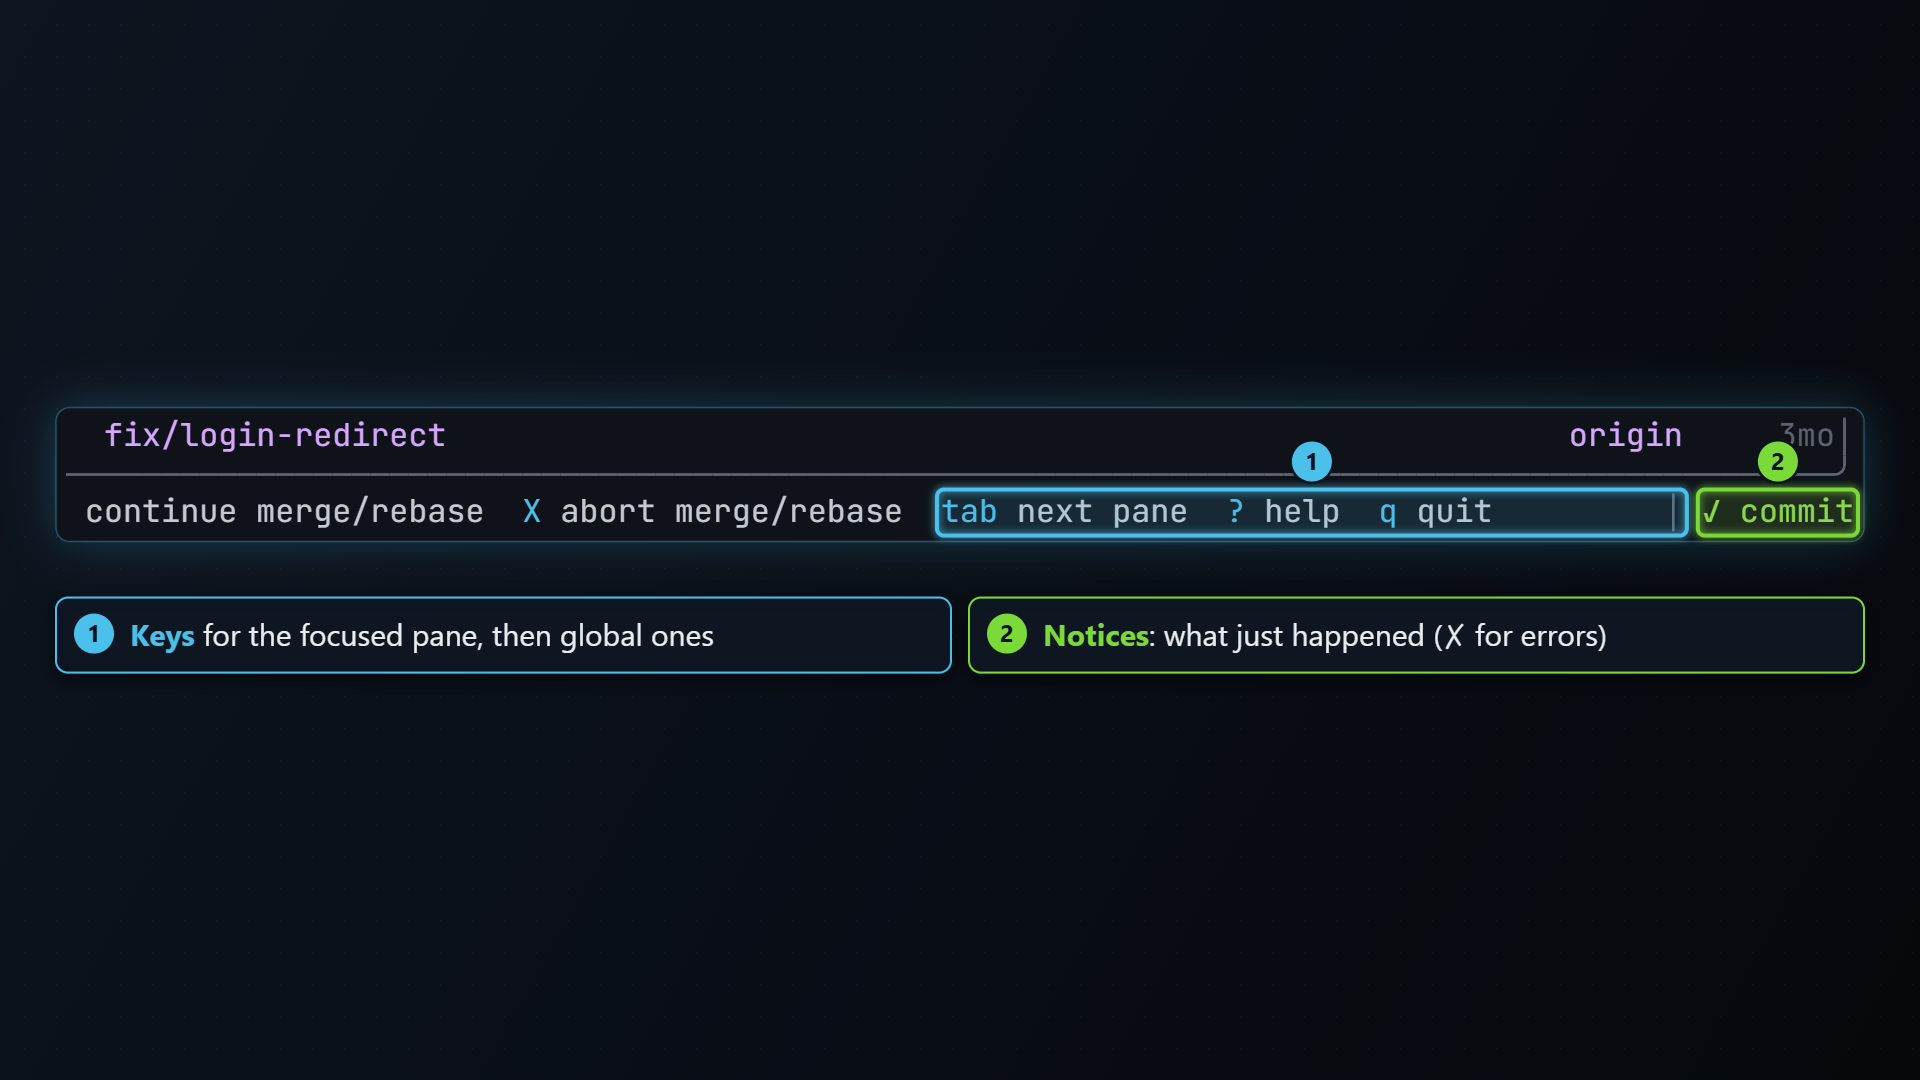
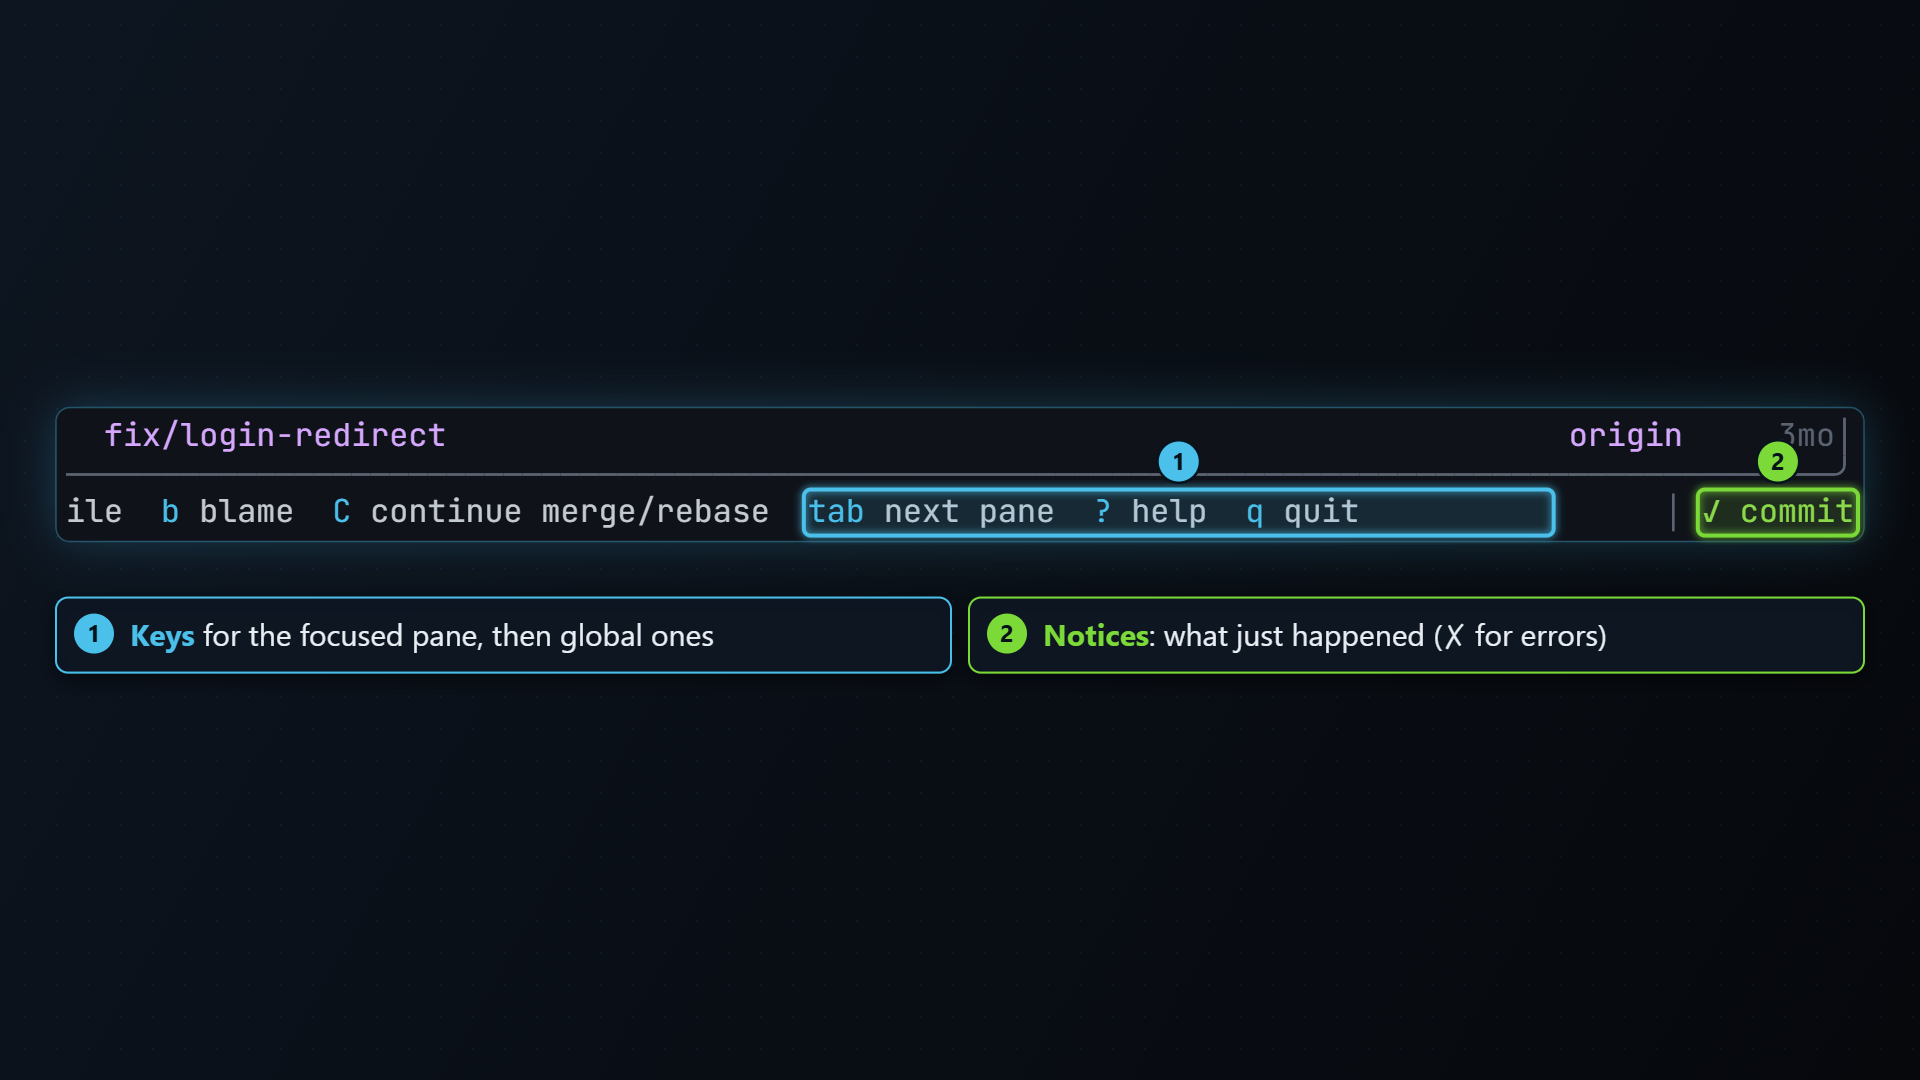
docs(status): Describe ignoring a file with i

Changed region(s): [[0.0312, 0.4278, 0.5312, 0.5194], [0.5625, 0.3972, 0.9062, 0.5194]]

diff --git a/crates/tt-git-testkit/examples/docshots.rs b/crates/tt-git-testkit/examples/docshots.rs
@@ -74,6 +74,7 @@ fn main() {
         ("commit", &["2", "c", "text:Show the unread count on the bell"]),
         ("stash-prompt", &["2", "s", "tab", "tab", "text:try a pulse animation"]),
         ("discard-confirm", &["2", "j", "d"]),
+        ("ignore-picker", &["2", "G", "k", "i"]),
         ("branches", &["3"]),
         ("branches-filter", &["3", "/", "text:fpp"]),
         ("branches-new", &["3", "j", "j", "n", "tab", "text:fix/footer-links"]),

diff --git a/README.md b/README.md
@@ -15,7 +15,7 @@ A terminal git client in Rust ([ratatui](https://ratatui.rs)), inspired by
   Press `a` to switch between all branches and just the current branch (plus
   its upstream).
 - **A status pane** like lazygit's files panel: stage, unstage, discard,
-  commit, amend and stash. Press `enter` on a file to see its changes
+  ignore, commit, amend and stash. Press `enter` on a file to see its changes
   fullscreen and stage, unstage or discard them a hunk or a line at a time.
   It also handles merge/rebase/cherry-pick conflicts.
 - **Code colored by language** in diffs, the staging view and blame, with
@@ -134,6 +134,7 @@ command palette, which lists built-in commands and plugin actions.
 | | `enter` | open the file's changes fullscreen to stage them by hunk or line (below) |
 | | `a` | stage everything (or unstage, if all staged) |
 | | `d` | discard changes to the file (asks first) |
+| | `i` | ignore the file or its folder: add it to `.gitignore` or `.git/info/exclude` (a tracked file asks, then `git rm --cached`) |
 | | `c` / `A` | commit / amend keeping the message |
 | | `s` | stash: everything, only what's staged, only what isn't staged, everything but leave staged changes in place, or just the selected file (`tab` in the dialog picks; the message is optional) |
 | | `e` | open the file in your editor at its first change (a conflicted file: at its first conflict marker) |

diff --git a/docs/configuration.md b/docs/configuration.md
@@ -234,7 +234,7 @@ Write keys as `q`, `Q`, `shift+q`, `ctrl+c`, `alt+enter`, `shift+tab`,
 | `push_tag` | `P` (on the Tags tab; pushes the branch on the others) | branches |
 | `next_tab`, `prev_tab`, `pick_base` | `]` `}`, `[` `{`, `b` | branches |
 | `next_tab`, `prev_tab` | `]` `}`, `[` `{` (steps the branches pane's tabs) | graph |
-| `stage_toggle`, `open_staging`, `stage_all`, `discard`, `commit`, `amend`, `stash`, `continue`, `abort` | `space`, `enter`, `a`, `d`, `c`, `A`, `s`, `C`, `X` | status |
+| `stage_toggle`, `open_staging`, `stage_all`, `discard`, `ignore`, `commit`, `amend`, `stash`, `continue`, `abort` | `space`, `enter`, `a`, `d`, `i`, `c`, `A`, `s`, `C`, `X` | status |
 | `stash_pop`, `stash_apply`, `stash_drop`, `new_branch`, `expand_details`, `next_tab`, `prev_tab`, `filter` | `space`, `a`, `d`, `n`, `enter`, `]` `}`, `[` `{`, `/` | stash |
 | `open_worktree`, `remove_worktree`, `new_branch`, `copy`, `next_tab`, `prev_tab`, `filter` | `enter`/`space`, `d`, `n`, `c`, `]` `}`, `[` `{`, `/` | worktrees |
 | `stage_toggle`, `switch_side`, `toggle_line_mode`, `select_range`, `discard`, `commit`, `close_details` | `space`, `tab`, `a`, `v`, `d`, `c`, `esc` | stage |
